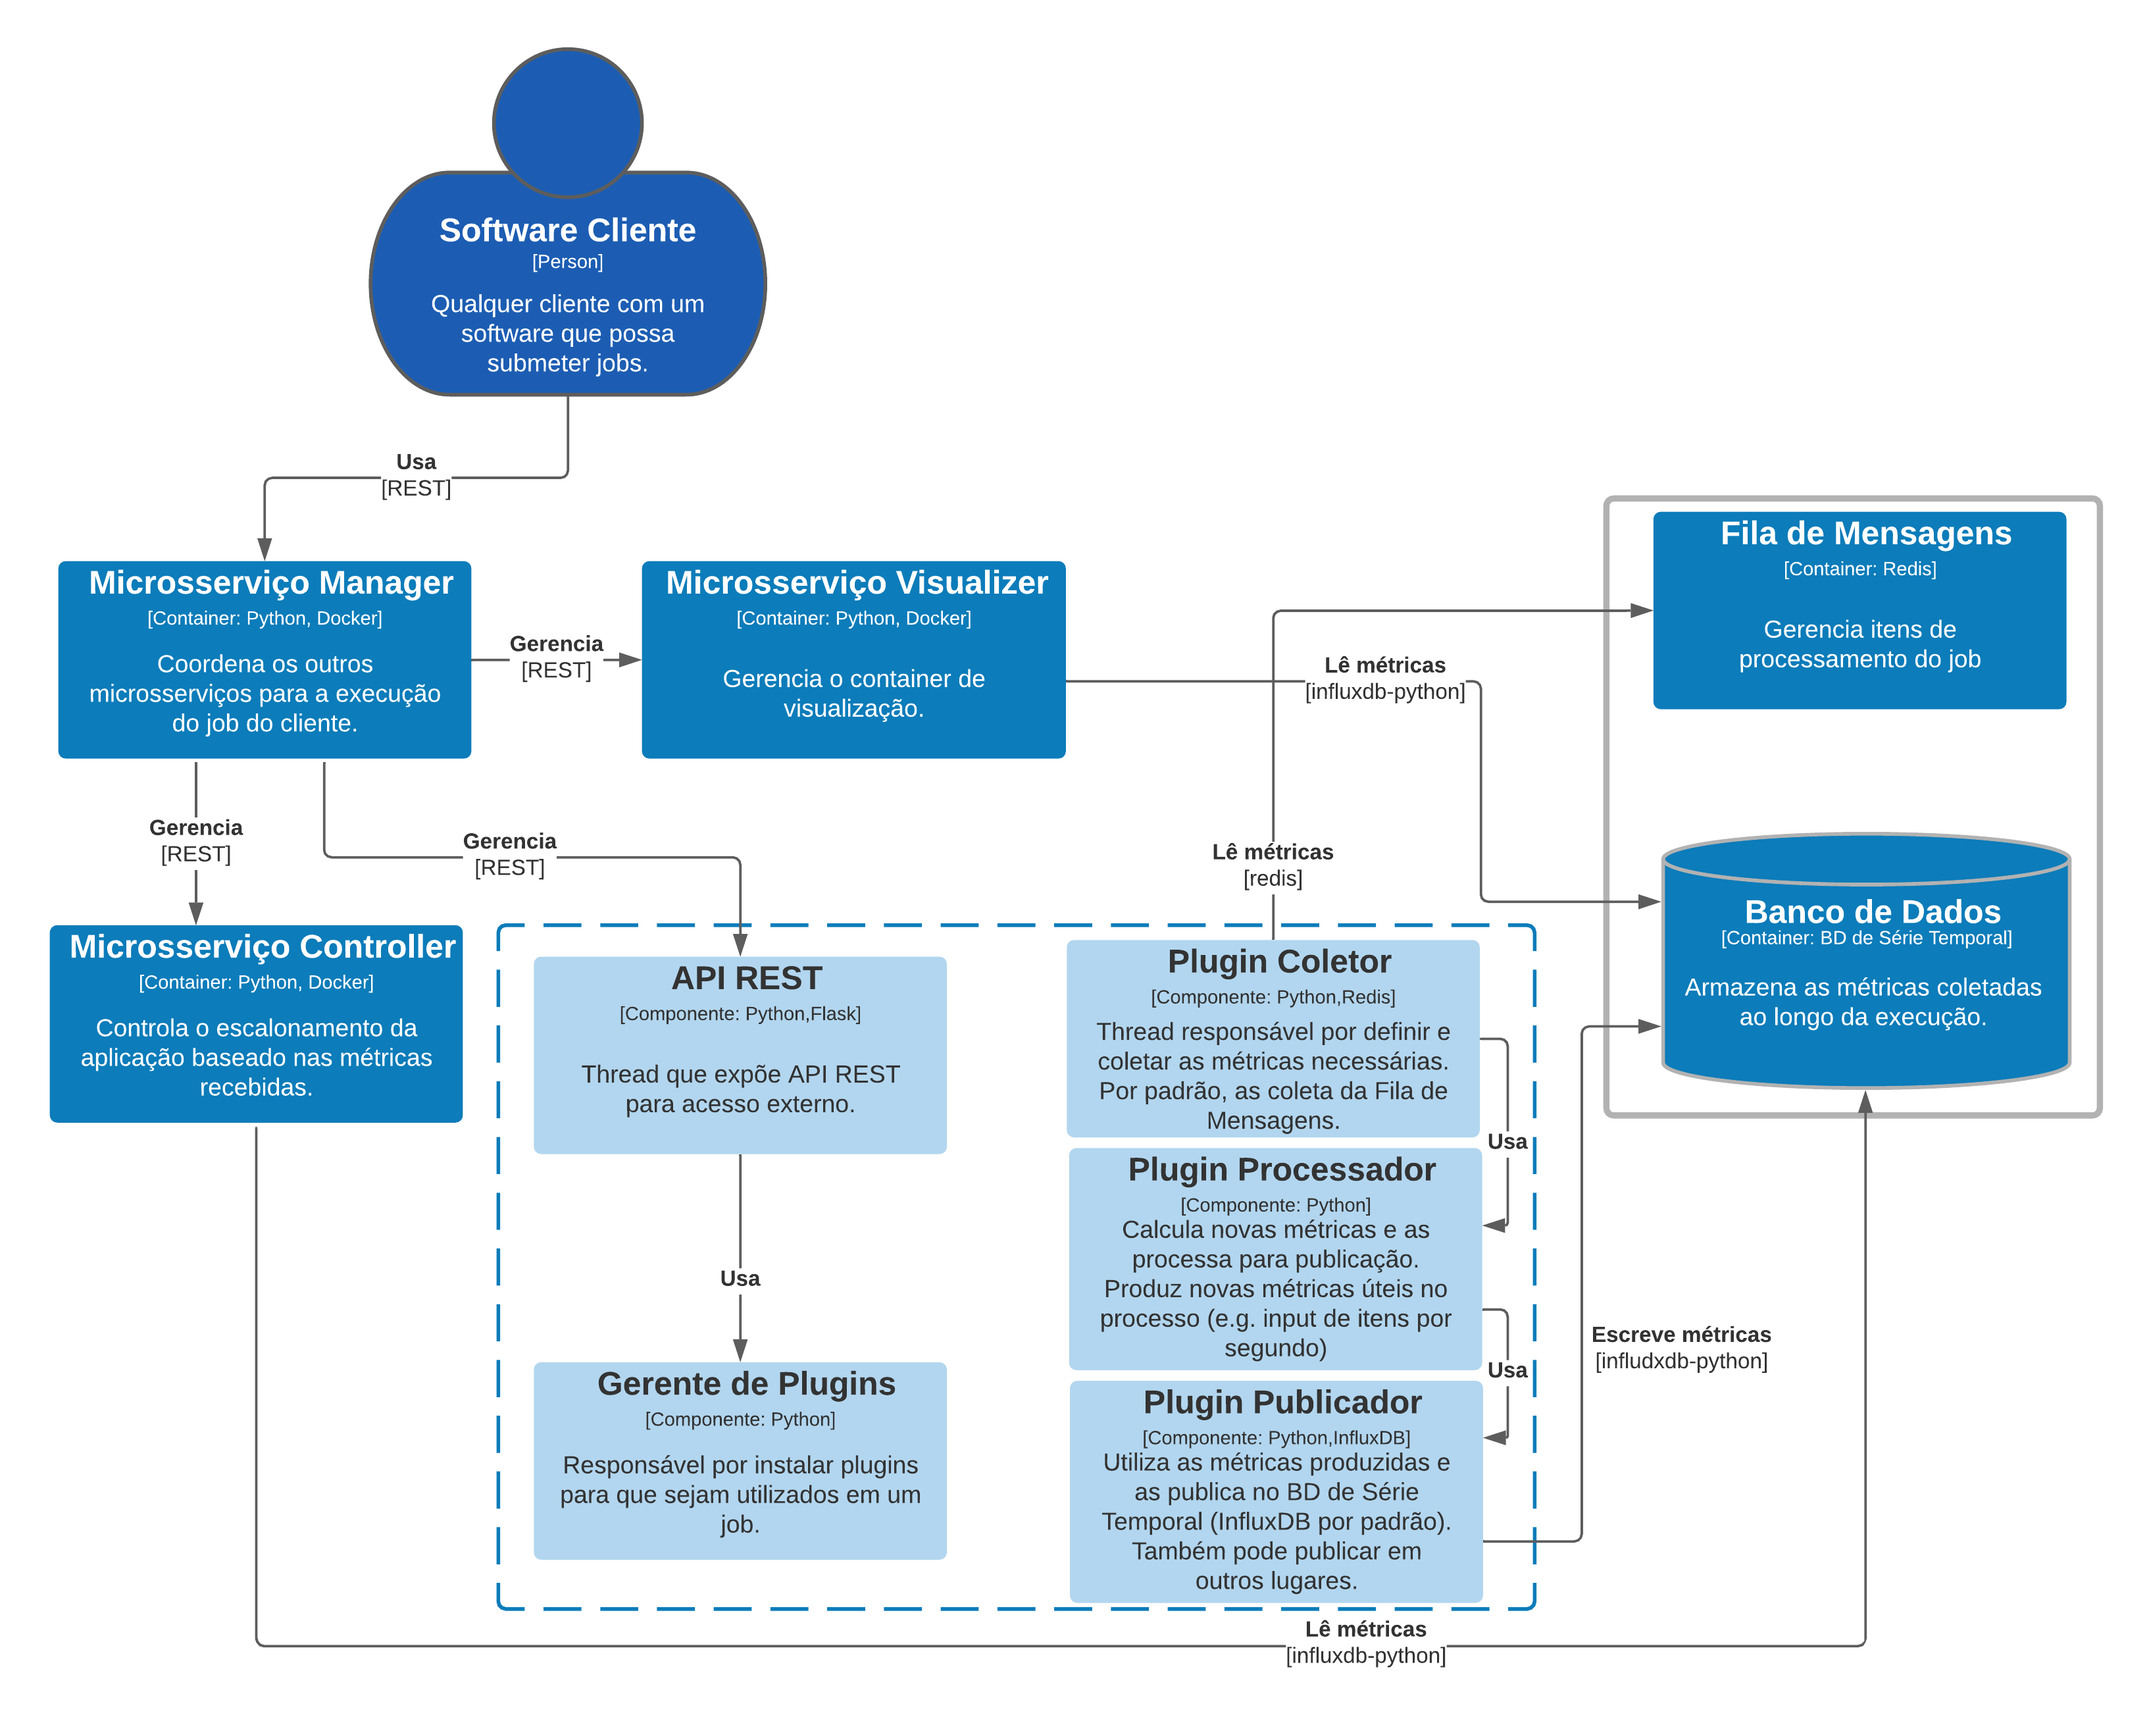
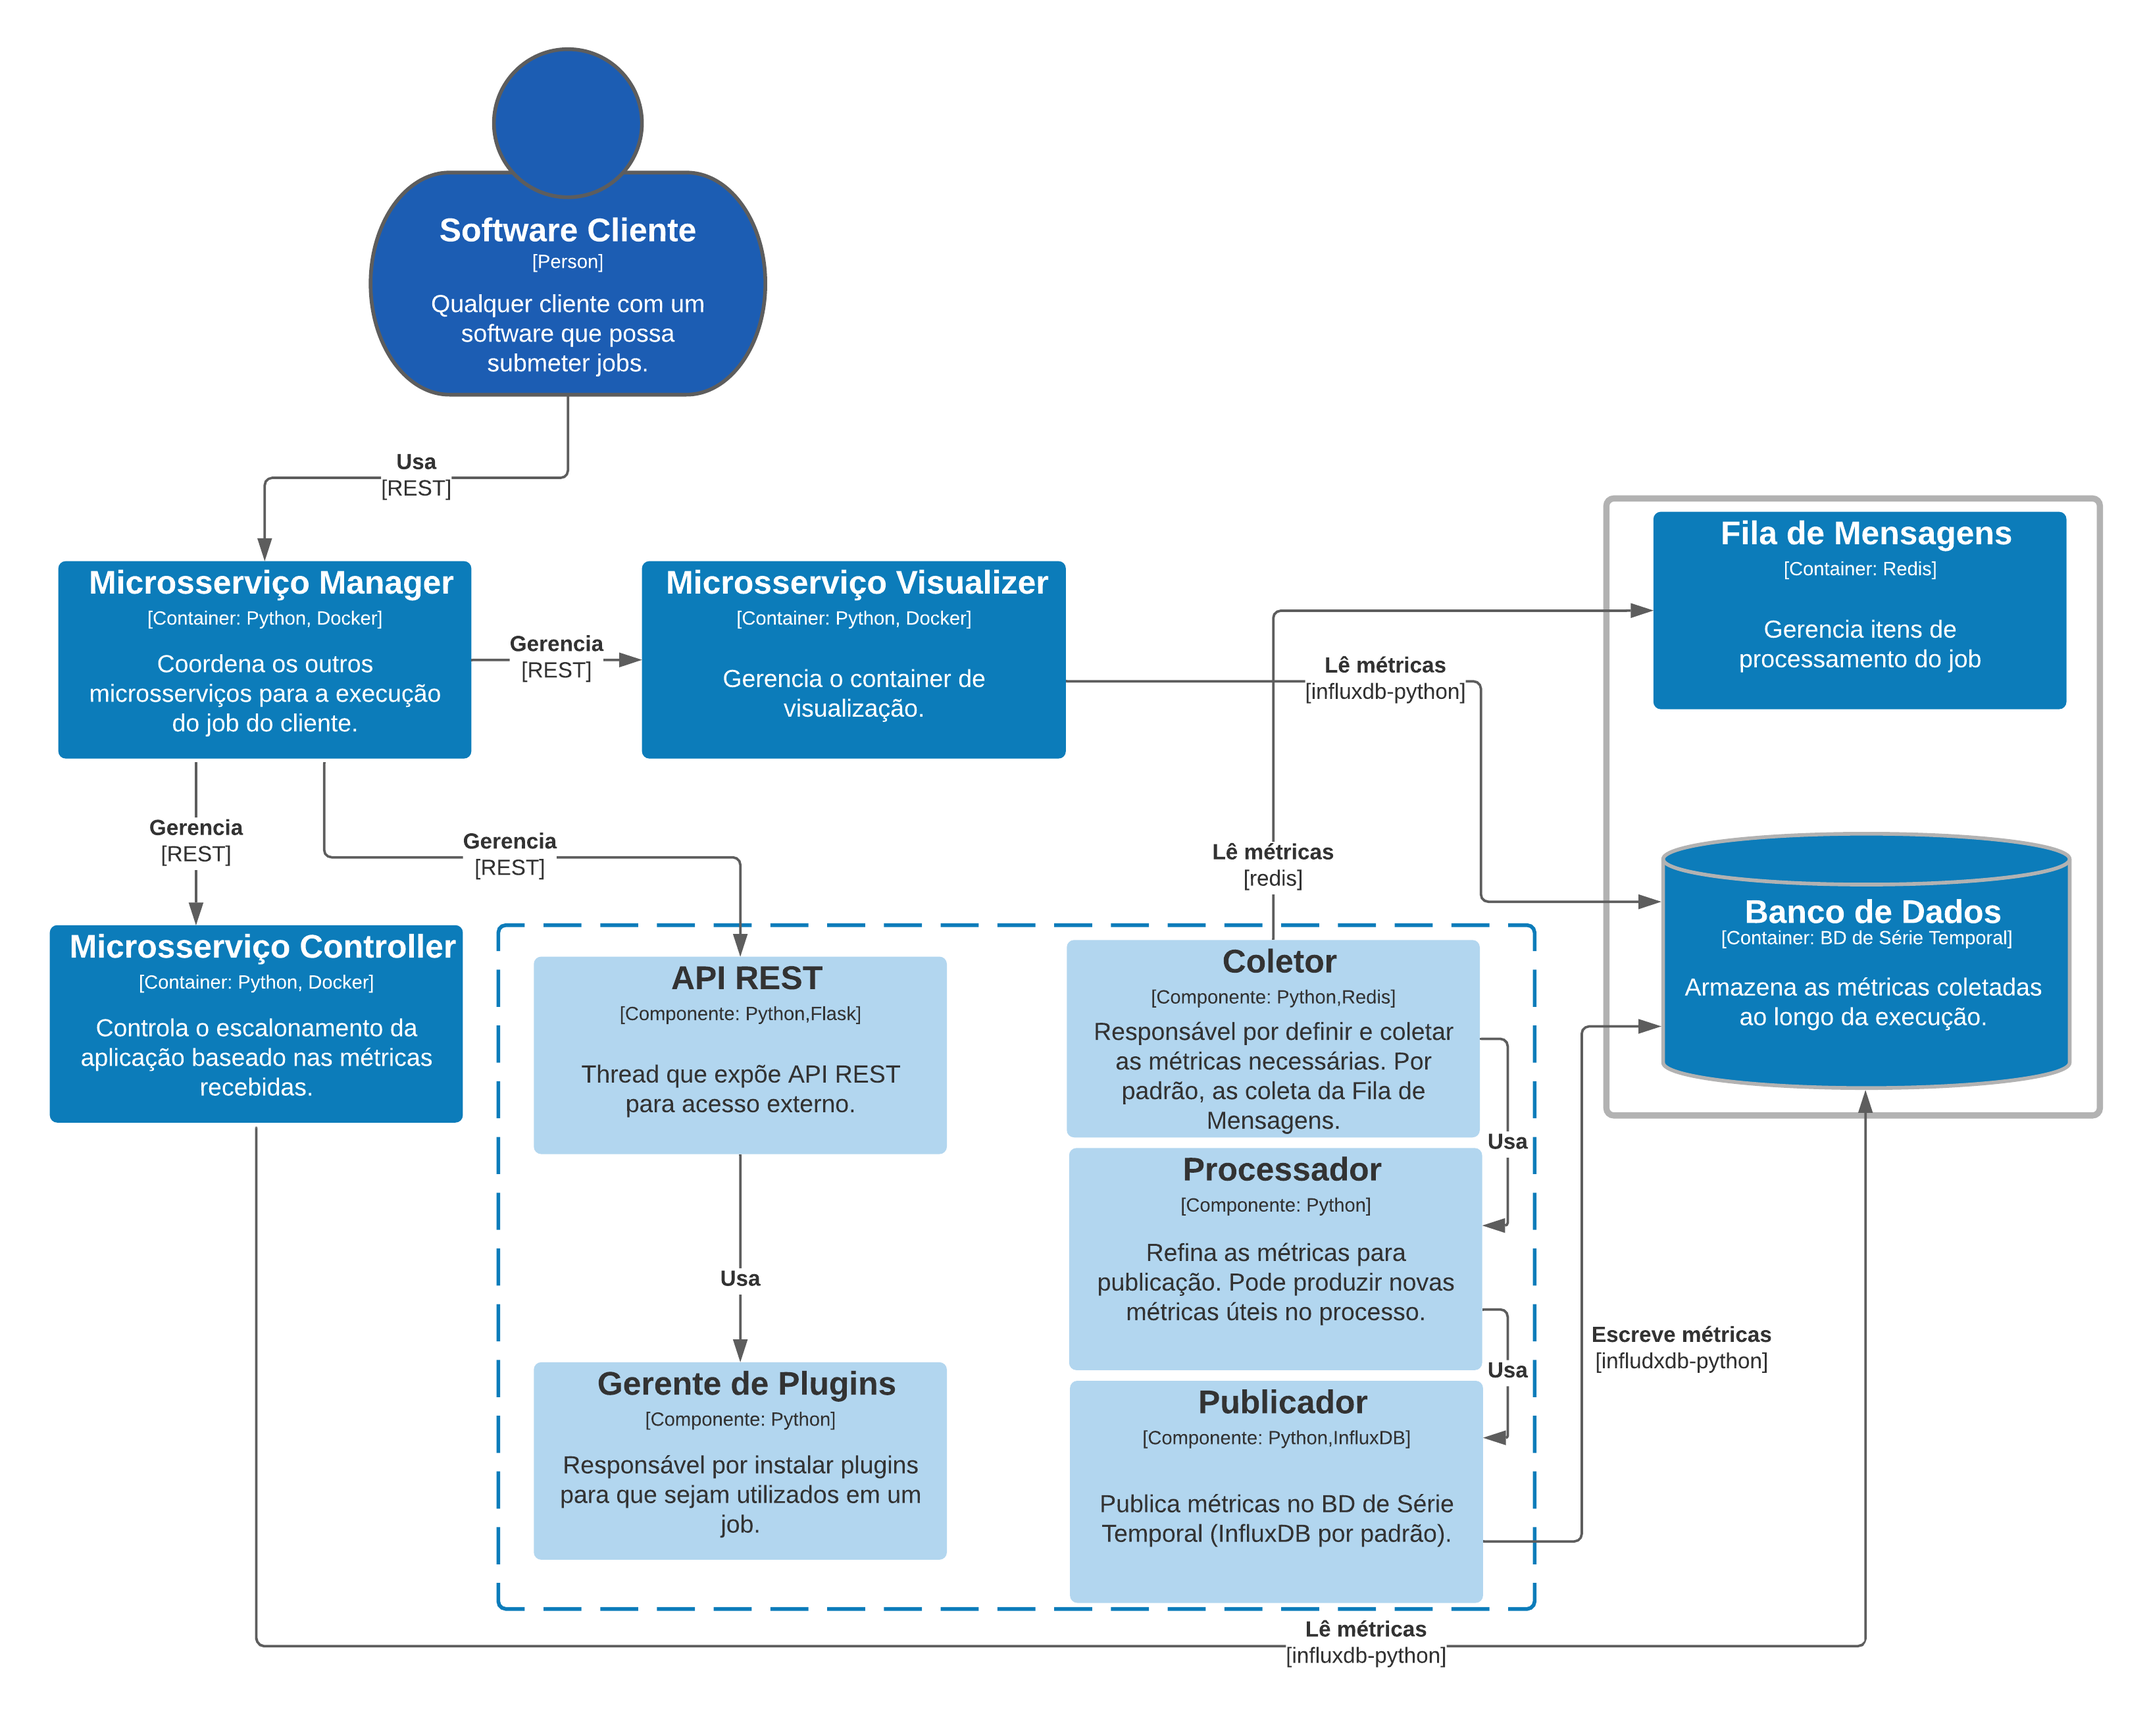
Finishes components section

Changed region(s): [[0.4997, 0.5569, 0.6871, 0.7735], [0.4997, 0.8044, 0.6871, 0.9282]]

diff --git a/content/posts/asperathos.md b/content/posts/asperathos.md
@@ -98,17 +98,25 @@ Os endpoints do visualizer são estes abaixo:
 
 Todos os containers do Asperathos seguem uma arquitetura de plugin. A maior implicação disso, é que não há detalhes muito minunciosos de implementação para cada um, visto que são feitos para comportar diversas possibilidades de plugin. Eles, entretanto, devem seguir responsabilidades bem definidas, como falamos na seção anterior, mas que separaremos aqui componente a componente de cada container.
 
-Cada container tem dois componentes em comum: a **API REST** (como discutimos) e o **gerente de plugins**. A API REST já foi explicada e não há mais detalhes do que isso, mas o gerente de plugins é o responsável por instalar as opcões de plugin e decidir qual usar de acordo com a configuração do Job. Abaixo, estão os componentes diferenciais de cada um.
+Cada container tem dois componentes em comum: a **API REST** (como discutimos) e o **gerente de plugins**. O gerente de plugins é o responsável por instalar as opcões de plugin e decidir qual usar de acordo com a configuração do Job. Abaixo, estão os componentes diferenciais de cada um.
 
 #### Manager
 
-O Manager coordena os outros containers e também o Job. Ele consegue fazer isso dividindo suas responsabilidades entre três componentes: o **executor de Job**, o **gerente** e o **componente de persistência**.
+Como vimos, o Manager coordena os outros containers e também o Job. Ele consegue fazer isso dividindo suas responsabilidades entre três componentes: o **executor de Job**, o **gerente** e o **componente de persistência**. Cada componente desses é um plugin.
 
 O **executor de Job** é o responsável por se comunicar com a API da infraestrutura (e.g. Kubernetes) para poder criar e configurar as aplicações auxiliares e a aplicação do cliente no cluster, bem como inicializar a carga de trabalho na Fila de Mensagens para que o Job possa começar.
 
+O **gerente** é o responsável por gerenciar os outros containers em si. Ele repassa as configurações do Job que são específicas a cada um, e os atualiza sempre que um Job novo é inciado e também quando é terminado. Ele faz isso se comunicando com a API REST de cada um.
+
+O **componente de persistência** não tem um nome específico, mas é responsável por persistir dados do Job em um banco local SQLite. Dessa maneira além de salvar dados sobre o Job atual, o Manager consegue manter histórico dos Jobs anteriores.
+
+![fig1](componente_manager_asperathos.png)
+
 #### Monitor
 
-Como vimos, o Monitor tem responsabilidade de coletar as métricas e publicá-las no BD. Isso é dividido de maneira simples entre três componentes: o **coletor**, o **processador** e o **publicador**. Cada um deles é um plugin que pode ser substituído.
+Já o Monitor tem responsabilidade de coletar as métricas e publicá-las no BD. Entretanto, o Monitor não possui diversos plugins nele, apenas um. A lógica de como o Monitor lida com tudo pode variar bastante de acordo com a implementação de plugin dele, mas é indicado que além de coletar e publicar ele faça um processamento das métricas. Isso é útil para converter, por exemplo, a contagem de itens de trabalho processados em um fluxo de processamento em itens por segundo.
+
+Assim, nós teríamos três componentes, os quais devem fazer parte do mesmo plugin.
 
 O **coletor** é responsável pela coleta. Não só pegar as métricas, como também decidir de onde elas vêm. Por padrão utilizamos apenas a Fila de Mensagens, mas outras fontes podem ser utilizadas. Por exemplo: uso de CPU/RAM dos nós do cluster, coletados através da API do Kubernetes.
 
@@ -120,7 +128,7 @@ O **publicador** utiliza as métricas refinadas do processador para publicá-las
 
 #### Controller
 
-O Controller é responsável por decidir quando, como e com qual intensidade atuar no escalonamento das réplicas, baseado em métrias lidas no BD, e também aplicar a decisão. Ele divide essas tarefas em três componentes: o **controlador**, o **atuador** e o **coletor**.
+O Controller é responsável por decidir quando, como e com qual intensidade atuar no escalonamento das réplicas, baseado em métrias lidas no BD, e também aplicar a decisão. Ele divide essas tarefas em três componentes: o **controlador**, o **atuador** e o **coletor**. Cada um deles é um plugin.
 
 O **controlador** é o componente de inteligência, e é responsável por decidir baseado nas métricas. Esse é o plugin de maior impacto do container e talvez da aplicação, pois afeta diretamente o progresso do job.
 
@@ -128,9 +136,11 @@ O **atuador** é responsável por se conectar com a interface da estrutura (i.e.
 
 O **coletor** é quem lê as métricas do Banco de Dados de Série Temporal. Essa função é simples, e só precisa ser reimplementada quando o Banco de Dados é diferente.
 
+![fig1](componente_controller_asperathos.png)
+
 #### Visualizer
 
-O Visualizer, sendo responsável por gerir o Dashboard Analítico, é bem separado da lógica normal. Ele não possui componentes bem definidos, tendo apenas um plugin, que é o responsável por tudo.
+O Visualizer, sendo responsável por gerir o Dashboard Analítico, é bem separado da lógica normal. Ele não possui componentes bem definidos e também possui apenas um plugin, que é o responsável por tudo.
 
 ### Visão de Informação
 
@@ -150,6 +160,6 @@ O diagrama de informação abaixo ilustra essa mudança de estado de um item con
 
 # Contribuições Concretas
 
-Foi feito um PR contendo os diagramas realizados aqui. Como o repositório já possui documentação, a adição foi pouca para que os diagramas coubessem de maneira a agregar informação. Além disso, visto que a documentação foi produzida em Inglês no repositório, os diagramas tiveram de ser traduzidos.
+Foi feito um PR contendo os diagramas de contexto, container e informação. Como o repositório já possui documentação, a adição foi pouca para que os diagramas coubessem de maneira a agregar informação. Além disso, visto que a documentação foi produzida em Inglês no repositório, os diagramas tiveram de ser traduzidos.
 
 https://github.com/ufcg-lsd/asperathos/pull/11
